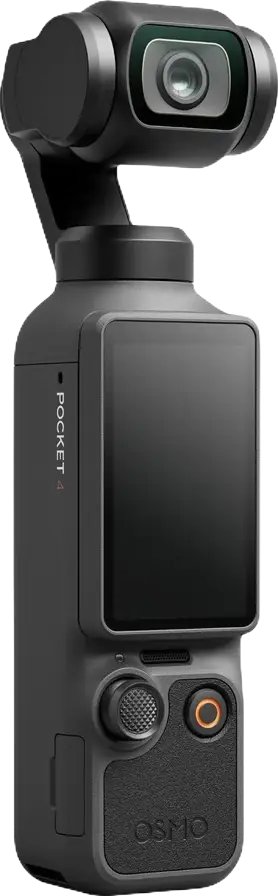
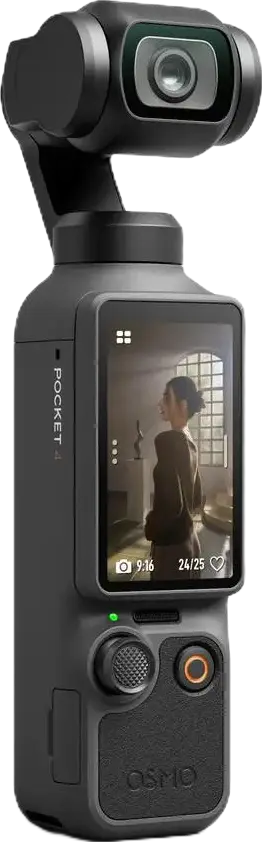
R40: replace 24-105 II / Pocket 3 / Pocket 4 with official product images, refine specs

diff --git a/full-r33-mirror.html b/full-r33-mirror.html
@@ -5031,8 +5031,8 @@ function initGear(root) {
           id: 'pocket4', name: 'DJI Osmo Pocket 4', cn: '大疆 Pocket 4',
           spec: '1 英寸 CMOS · 4K/240 · 107GB 内置',
           specs: [
-            ['传感器', '1 英寸 CMOS，等效 20mm f/2.0，14 档动态范围'],
-            ['视频', '4K 240fps 慢动作，10-bit D-Log'],
+            ['传感器', '1 英寸堆栈式 CMOS，等效 20mm f/2.0，14 档动态范围'],
+            ['视频', '4K 240fps 慢动作；普通视频支持 10-bit D-Log'],
             ['存储', '107GB 内置存储，免带卡'],
             ['云台', '三轴机械增稳，2 英寸旋转 OLED 屏'],
             ['机身', '144.2 × 44.4 × 33.5 mm / 190.5 g'],
@@ -5065,10 +5065,13 @@ function initGear(root) {
           spec: '恒定 f/4 · 4 级防抖 · 795 g',
           specs: [
             ['焦段', '24-105mm，恒定 f/4'],
-            ['结构', '12 组 17 片'],
+            ['画幅/卡口', '全画幅 · 佳能 EF 卡口'],
+            ['结构', '12 组 17 片（4 片非球面，ASC 镀膜）'],
+            ['光圈', '10 片圆形光圈，最小 f/22'],
             ['防抖', 'IS 光学防抖，约 4 级'],
-            ['最近对焦', '0.45 m'],
-            ['尺寸', 'φ83.5 × 118 mm / 795 g'],
+            ['最近对焦', '0.45 m；最大放大倍率 0.24×'],
+            ['滤镜/尺寸', '77 mm；φ83.5 × 118 mm / 795 g'],
+            ['防护', '防尘防滴'],
           ],
           note: '一镜走全场的长焦段标准镜，配 6D2 最顺手。'
         },
@@ -5264,8 +5267,8 @@ function initGear(root) {
     'rs3':'acc-rs3','tripod':'acc-tripod','stand':'acc-stand',
     'mic':'acc-mic'
   };
-  const IMG_V = { '2470':'?v=r38', '70200':'?v=r38b', '70200c':'?v=r39', '18200':'?v=r39', '2060':'?v=r38', 'stick':'?v=r38', 'mic':'?v=r38', 'light2':'?v=r31', 'light1':'?v=r31' };
-  const CUTS = {'body-6d2':'https://aka.doubaocdn.com/s/GA3fZQHzkB','body-s5ii':'https://aka.doubaocdn.com/s/vhonfIMBnD','body-a7m3':'https://aka.doubaocdn.com/s/VgUydhQShU','body-d7500':'https://aka.doubaocdn.com/s/7enm3wgvN9','body-pocket3':'https://aka.doubaocdn.com/s/vbPEQw7TYw','body-pocket4':'https://aka.doubaocdn.com/s/KuNNwyECsm','lens-2470':'https://aka.doubaocdn.com/s/eTTkRJ1Q2s','lens-24105':'https://aka.doubaocdn.com/s/j9loH6wu2O','lens-70200':'https://aka.doubaocdn.com/s/k4QdHVdZpb','lens-70200c':'https://aka.doubaocdn.com/s/VZFTfTBYCB','lens-18200':'https://aka.doubaocdn.com/s/uQQHE6PmvS','lens-100400':'https://aka.doubaocdn.com/s/ilaLLNpFyv','lens-2060':'https://aka.doubaocdn.com/s/lsZfsPAw39','acc-light-wide':'https://aka.doubaocdn.com/s/50NzMK41Xj','acc-light':'https://aka.doubaocdn.com/s/jtLyGEuUXt','acc-stick':'https://aka.doubaocdn.com/s/ZIferbzd6U','acc-godox':'https://aka.doubaocdn.com/s/VpaP2VRC9q','acc-rs3':'https://aka.doubaocdn.com/s/Zydr4xgoMy','acc-tripod':'https://aka.doubaocdn.com/s/6oDb4zdX1U','acc-stand':'https://aka.doubaocdn.com/s/RpFLpY4uJH','acc-mic':'https://aka.doubaocdn.com/s/wq6WKMDzrK'};
+  const IMG_V = { '2470':'?v=r38', '70200':'?v=r38b', '70200c':'?v=r39', '18200':'?v=r39', '2060':'?v=r38', '24105':'?v=r40', 'pocket3':'?v=r40', 'pocket4':'?v=r40', 'stick':'?v=r38', 'mic':'?v=r38', 'light2':'?v=r31', 'light1':'?v=r31' };
+  const CUTS = {'body-6d2':'https://aka.doubaocdn.com/s/GA3fZQHzkB','body-s5ii':'https://aka.doubaocdn.com/s/vhonfIMBnD','body-a7m3':'https://aka.doubaocdn.com/s/VgUydhQShU','body-d7500':'https://aka.doubaocdn.com/s/7enm3wgvN9','body-pocket3':'https://aka.doubaocdn.com/s/tqAvJ8Gu4Q','body-pocket4':'https://aka.doubaocdn.com/s/6HWVbRDBXa','lens-2470':'https://aka.doubaocdn.com/s/eTTkRJ1Q2s','lens-24105':'https://aka.doubaocdn.com/s/KJ7f3U0Mw5','lens-70200':'https://aka.doubaocdn.com/s/k4QdHVdZpb','lens-70200c':'https://aka.doubaocdn.com/s/VZFTfTBYCB','lens-18200':'https://aka.doubaocdn.com/s/uQQHE6PmvS','lens-100400':'https://aka.doubaocdn.com/s/ilaLLNpFyv','lens-2060':'https://aka.doubaocdn.com/s/lsZfsPAw39','acc-light-wide':'https://aka.doubaocdn.com/s/50NzMK41Xj','acc-light':'https://aka.doubaocdn.com/s/jtLyGEuUXt','acc-stick':'https://aka.doubaocdn.com/s/ZIferbzd6U','acc-godox':'https://aka.doubaocdn.com/s/VpaP2VRC9q','acc-rs3':'https://aka.doubaocdn.com/s/Zydr4xgoMy','acc-tripod':'https://aka.doubaocdn.com/s/6oDb4zdX1U','acc-stand':'https://aka.doubaocdn.com/s/RpFLpY4uJH','acc-mic':'https://aka.doubaocdn.com/s/wq6WKMDzrK'};
   const shot = id => CUTS[FILE[id]] || CUTS['body-6d2'];
   const cut = id => CUTS[FILE[id]] || CUTS['body-6d2'];
   

diff --git a/full-r33.html b/full-r33.html
@@ -5031,8 +5031,8 @@ function initGear(root) {
           id: 'pocket4', name: 'DJI Osmo Pocket 4', cn: '大疆 Pocket 4',
           spec: '1 英寸 CMOS · 4K/240 · 107GB 内置',
           specs: [
-            ['传感器', '1 英寸 CMOS，等效 20mm f/2.0，14 档动态范围'],
-            ['视频', '4K 240fps 慢动作，10-bit D-Log'],
+            ['传感器', '1 英寸堆栈式 CMOS，等效 20mm f/2.0，14 档动态范围'],
+            ['视频', '4K 240fps 慢动作；普通视频支持 10-bit D-Log'],
             ['存储', '107GB 内置存储，免带卡'],
             ['云台', '三轴机械增稳，2 英寸旋转 OLED 屏'],
             ['机身', '144.2 × 44.4 × 33.5 mm / 190.5 g'],
@@ -5065,10 +5065,13 @@ function initGear(root) {
           spec: '恒定 f/4 · 4 级防抖 · 795 g',
           specs: [
             ['焦段', '24-105mm，恒定 f/4'],
-            ['结构', '12 组 17 片'],
+            ['画幅/卡口', '全画幅 · 佳能 EF 卡口'],
+            ['结构', '12 组 17 片（4 片非球面，ASC 镀膜）'],
+            ['光圈', '10 片圆形光圈，最小 f/22'],
             ['防抖', 'IS 光学防抖，约 4 级'],
-            ['最近对焦', '0.45 m'],
-            ['尺寸', 'φ83.5 × 118 mm / 795 g'],
+            ['最近对焦', '0.45 m；最大放大倍率 0.24×'],
+            ['滤镜/尺寸', '77 mm；φ83.5 × 118 mm / 795 g'],
+            ['防护', '防尘防滴'],
           ],
           note: '一镜走全场的长焦段标准镜，配 6D2 最顺手。'
         },
@@ -5264,8 +5267,8 @@ function initGear(root) {
     'rs3':'acc-rs3','tripod':'acc-tripod','stand':'acc-stand',
     'mic':'acc-mic'
   };
-  const IMG_V = { '2470':'?v=r38', '70200':'?v=r38b', '70200c':'?v=r39', '18200':'?v=r39', '2060':'?v=r38', 'stick':'?v=r38', 'mic':'?v=r38', 'light2':'?v=r31', 'light1':'?v=r31' };
-  const CUTS = {'body-6d2':'https://aka.doubaocdn.com/s/GA3fZQHzkB','body-s5ii':'https://aka.doubaocdn.com/s/vhonfIMBnD','body-a7m3':'https://aka.doubaocdn.com/s/VgUydhQShU','body-d7500':'https://aka.doubaocdn.com/s/7enm3wgvN9','body-pocket3':'https://aka.doubaocdn.com/s/vbPEQw7TYw','body-pocket4':'https://aka.doubaocdn.com/s/KuNNwyECsm','lens-2470':'https://aka.doubaocdn.com/s/eTTkRJ1Q2s','lens-24105':'https://aka.doubaocdn.com/s/j9loH6wu2O','lens-70200':'https://aka.doubaocdn.com/s/k4QdHVdZpb','lens-70200c':'https://aka.doubaocdn.com/s/VZFTfTBYCB','lens-18200':'https://aka.doubaocdn.com/s/uQQHE6PmvS','lens-100400':'https://aka.doubaocdn.com/s/ilaLLNpFyv','lens-2060':'https://aka.doubaocdn.com/s/lsZfsPAw39','acc-light-wide':'https://aka.doubaocdn.com/s/50NzMK41Xj','acc-light':'https://aka.doubaocdn.com/s/jtLyGEuUXt','acc-stick':'https://aka.doubaocdn.com/s/ZIferbzd6U','acc-godox':'https://aka.doubaocdn.com/s/VpaP2VRC9q','acc-rs3':'https://aka.doubaocdn.com/s/Zydr4xgoMy','acc-tripod':'https://aka.doubaocdn.com/s/6oDb4zdX1U','acc-stand':'https://aka.doubaocdn.com/s/RpFLpY4uJH','acc-mic':'https://aka.doubaocdn.com/s/wq6WKMDzrK'};
+  const IMG_V = { '2470':'?v=r38', '70200':'?v=r38b', '70200c':'?v=r39', '18200':'?v=r39', '2060':'?v=r38', '24105':'?v=r40', 'pocket3':'?v=r40', 'pocket4':'?v=r40', 'stick':'?v=r38', 'mic':'?v=r38', 'light2':'?v=r31', 'light1':'?v=r31' };
+  const CUTS = {'body-6d2':'https://aka.doubaocdn.com/s/GA3fZQHzkB','body-s5ii':'https://aka.doubaocdn.com/s/vhonfIMBnD','body-a7m3':'https://aka.doubaocdn.com/s/VgUydhQShU','body-d7500':'https://aka.doubaocdn.com/s/7enm3wgvN9','body-pocket3':'https://aka.doubaocdn.com/s/tqAvJ8Gu4Q','body-pocket4':'https://aka.doubaocdn.com/s/6HWVbRDBXa','lens-2470':'https://aka.doubaocdn.com/s/eTTkRJ1Q2s','lens-24105':'https://aka.doubaocdn.com/s/KJ7f3U0Mw5','lens-70200':'https://aka.doubaocdn.com/s/k4QdHVdZpb','lens-70200c':'https://aka.doubaocdn.com/s/VZFTfTBYCB','lens-18200':'https://aka.doubaocdn.com/s/uQQHE6PmvS','lens-100400':'https://aka.doubaocdn.com/s/ilaLLNpFyv','lens-2060':'https://aka.doubaocdn.com/s/lsZfsPAw39','acc-light-wide':'https://aka.doubaocdn.com/s/50NzMK41Xj','acc-light':'https://aka.doubaocdn.com/s/jtLyGEuUXt','acc-stick':'https://aka.doubaocdn.com/s/ZIferbzd6U','acc-godox':'https://aka.doubaocdn.com/s/VpaP2VRC9q','acc-rs3':'https://aka.doubaocdn.com/s/Zydr4xgoMy','acc-tripod':'https://aka.doubaocdn.com/s/6oDb4zdX1U','acc-stand':'https://aka.doubaocdn.com/s/RpFLpY4uJH','acc-mic':'https://aka.doubaocdn.com/s/wq6WKMDzrK'};
   const shot = id => CUTS[FILE[id]] || CUTS['body-6d2'];
   const cut = id => CUTS[FILE[id]] || CUTS['body-6d2'];
   

diff --git a/full.html b/full.html
@@ -5030,8 +5030,8 @@ function initGear(root) {
           id: 'pocket4', name: 'DJI Osmo Pocket 4', cn: '大疆 Pocket 4',
           spec: '1 英寸 CMOS · 4K/240 · 107GB 内置',
           specs: [
-            ['传感器', '1 英寸 CMOS，等效 20mm f/2.0，14 档动态范围'],
-            ['视频', '4K 240fps 慢动作，10-bit D-Log'],
+            ['传感器', '1 英寸堆栈式 CMOS，等效 20mm f/2.0，14 档动态范围'],
+            ['视频', '4K 240fps 慢动作；普通视频支持 10-bit D-Log'],
             ['存储', '107GB 内置存储，免带卡'],
             ['云台', '三轴机械增稳，2 英寸旋转 OLED 屏'],
             ['机身', '144.2 × 44.4 × 33.5 mm / 190.5 g'],
@@ -5064,10 +5064,13 @@ function initGear(root) {
           spec: '恒定 f/4 · 4 级防抖 · 795 g',
           specs: [
             ['焦段', '24-105mm，恒定 f/4'],
-            ['结构', '12 组 17 片'],
+            ['画幅/卡口', '全画幅 · 佳能 EF 卡口'],
+            ['结构', '12 组 17 片（4 片非球面，ASC 镀膜）'],
+            ['光圈', '10 片圆形光圈，最小 f/22'],
             ['防抖', 'IS 光学防抖，约 4 级'],
-            ['最近对焦', '0.45 m'],
-            ['尺寸', 'φ83.5 × 118 mm / 795 g'],
+            ['最近对焦', '0.45 m；最大放大倍率 0.24×'],
+            ['滤镜/尺寸', '77 mm；φ83.5 × 118 mm / 795 g'],
+            ['防护', '防尘防滴'],
           ],
           note: '一镜走全场的长焦段标准镜，配 6D2 最顺手。'
         },
@@ -5263,7 +5266,7 @@ function initGear(root) {
     'rs3':'acc-rs3','tripod':'acc-tripod','stand':'acc-stand',
     'mic':'acc-mic'
   };
-  const IMG_V = { '2470':'?v=r38', '70200':'?v=r38b', '70200c':'?v=r39', '18200':'?v=r39', '2060':'?v=r38', 'stick':'?v=r38', 'mic':'?v=r38', 'light2':'?v=r31', 'light1':'?v=r31' };
+  const IMG_V = { '2470':'?v=r38', '70200':'?v=r38b', '70200c':'?v=r39', '18200':'?v=r39', '2060':'?v=r38', '24105':'?v=r40', 'pocket3':'?v=r40', 'pocket4':'?v=r40', 'stick':'?v=r38', 'mic':'?v=r38', 'light2':'?v=r31', 'light1':'?v=r31' };
   const shot = id => `assets/equipment/${FILE[id]}.webp${IMG_V[id] || ''}`;
   const cut = id => `assets/equipment/cut/${FILE[id]}.webp${IMG_V[id] || ''}`;
 

diff --git a/index.html b/index.html
@@ -15,7 +15,7 @@ html,body{margin:0;width:100%;height:100%;background:#0d0c0b;overflow:hidden}
 <script>
 (function () {
   var entry = './full-r33.html';
-  var mirror = 'https://aka.doubaocdn.com/s/WKC73clxCx'; // R39 国内加速镜像，7 天有效
+  var mirror = 'https://aka.doubaocdn.com/s/OryTv0j0xq'; // R40 国内加速镜像，7 天有效
   var hash = location.hash || '';
   var q = new URLSearchParams(location.search);
   var navigated = false;
